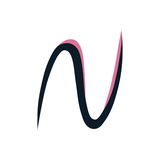
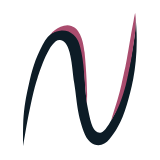
SIGN-763: Sign-logoene i lys modus bruker berry, ikke light berry (0.49.2)
Rebaset på main etter SIGN-773 (0.49.1). 0.49.0 i registeret er denne branchens innhold, publisert ved en feil før main var oppdatert; 0.49.2 er den offisielle versjonen med både miljømerket og berry-logoene.

Changed region(s): [[0.125, 0.0938, 0.875, 0.9062]]

diff --git a/src/web/ProductSymbol.vue b/src/web/ProductSymbol.vue
@@ -7,7 +7,7 @@
  * Symbolet rendres inline slik at den mørke delen («tar», blekket i paletten)
  * følger tekstfargen (`currentColor`) og dermed lys/mørk modus, mens
  * merkefargen er fast: merkefarger er brand-assets, ikke tema-tokens
- * (Sign: light berry, SIGN-583).
+ * (Sign: berry på lys flate, light berry på mørk — SIGN-763).
  *
  * Størrelse settes av verts-komponenten via `height` (bildet skalerer
  * proporsjonalt); `AppHeader` gjør det for headeren.
@@ -21,7 +21,7 @@ defineProps<{
 
 <template>
   <span class="nk-product-symbol" :class="`nk-product-symbol--${product}`" aria-hidden="true">
-    <!-- Sign: kalligrafisk S — tar (currentColor) med light berry som merkefarge. -->
+    <!-- Sign: kalligrafisk S — tar (currentColor) med berry som merkefarge (light berry i mørk modus). -->
     <svg
       v-if="product === 'sign'"
       class="nk-product-symbol__svg"
@@ -62,10 +62,18 @@ defineProps<{
   width: auto;
 }
 
-/* Merkefargen er brand-asset (fast hex, som logo-PNG-ene i BrandWordmark),
-   ikke en tema-token: Sign = light berry (SIGN-583). Kan overstyres av verten
-   med --nk-product-symbol-brand om et annet uttrykk vedtas. */
+/* Merkefargen er brand-asset (fast hex, som logo-SVG-ene i BrandWordmark),
+   ikke en tema-token: Sign = berry på lys flate (SIGN-763), light berry på
+   mørk (under). Kan overstyres av verten med --nk-product-symbol-brand om et
+   annet uttrykk vedtas. */
 .nk-product-symbol--sign .nk-product-symbol__brand {
+  fill: var(--nk-product-symbol-brand, #aa4c6e);
+}
+</style>
+
+<style>
+/* Mørk modus byttes via `.dark` på rot-elementet, som i BrandWordmark. */
+.dark .nk-product-symbol--sign .nk-product-symbol__brand {
   fill: var(--nk-product-symbol-brand, #dc7499);
 }
 </style>

diff --git a/src/tokens/products/sign.ts b/src/tokens/products/sign.ts
@@ -7,7 +7,7 @@ import type { NkProductTheme } from '../types'
 //   tar         #0d1c26  blekk (løpende tekst) og mørk flate (bånd, løftet panel)
 //   plum        #2f1220  andre blekk: overskrifter og titler
 //   berry       #aa4c6e  handling i lys modus (knapper, lenker) og railen (SIGN-752)
-//   light berry #dc7499  merket (Sign-logoen) og handling i mørk modus
+//   light berry #dc7499  handling i mørk modus, og Sign-merket på mørk flate (på lys flate er merket berry — SIGN-763)
 //   (periwinkle #90afed er Nordikodes blå og brukes ikke i Sign — SIGN-750)
 //   lime        #bfd75b  fullført-familien (vunnet, bud mottatt, fortjeneste)
 //   gold        #cca427  venter på noen (venter på kundesvar, ny sak, meldingsvarsler)
